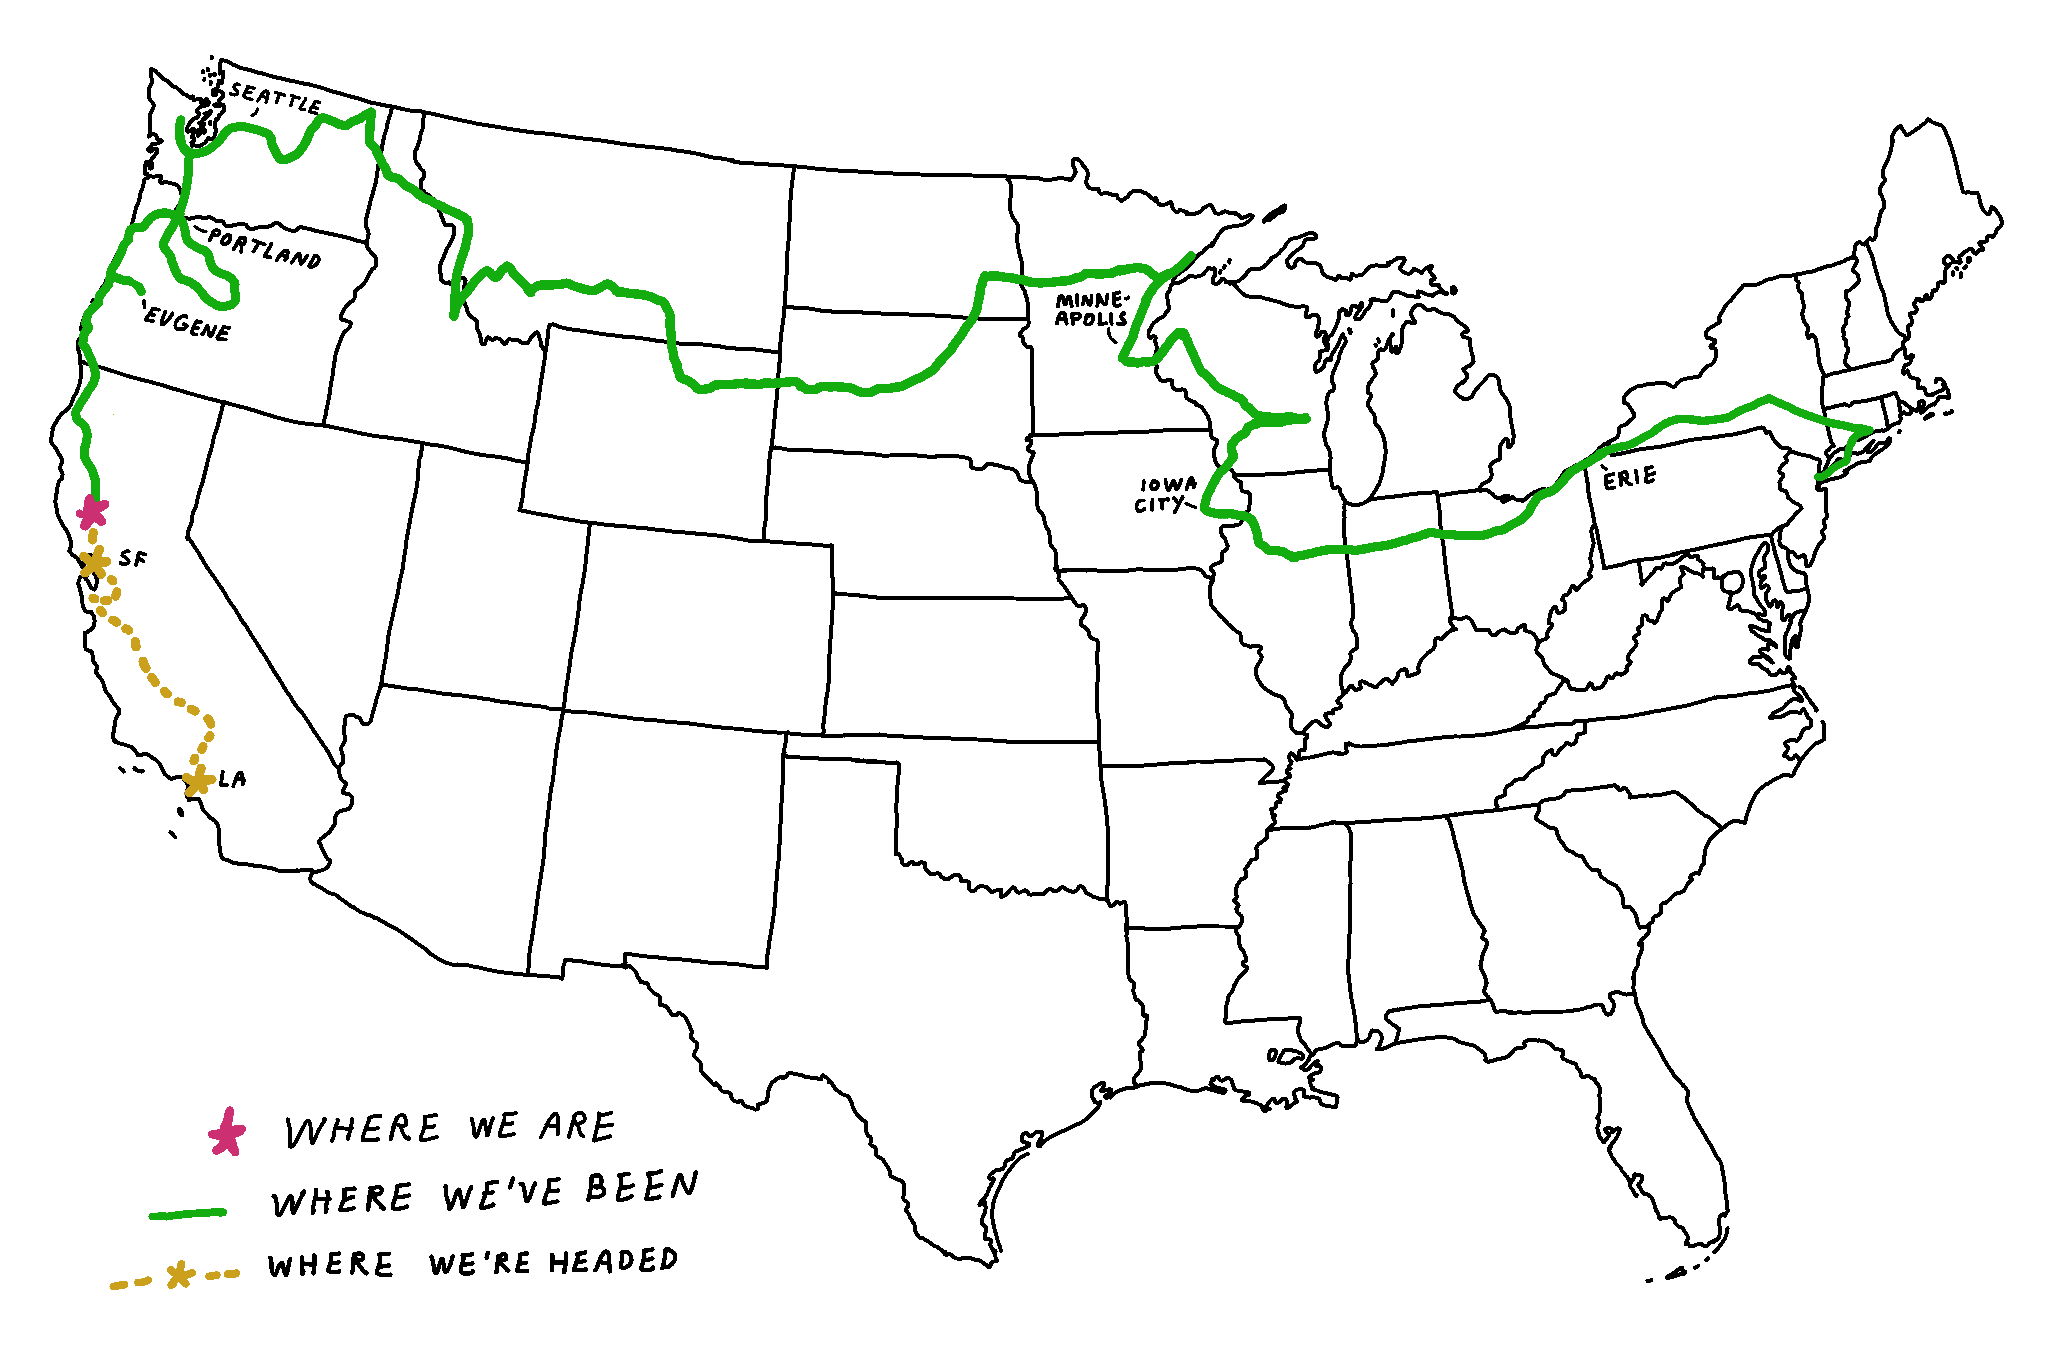
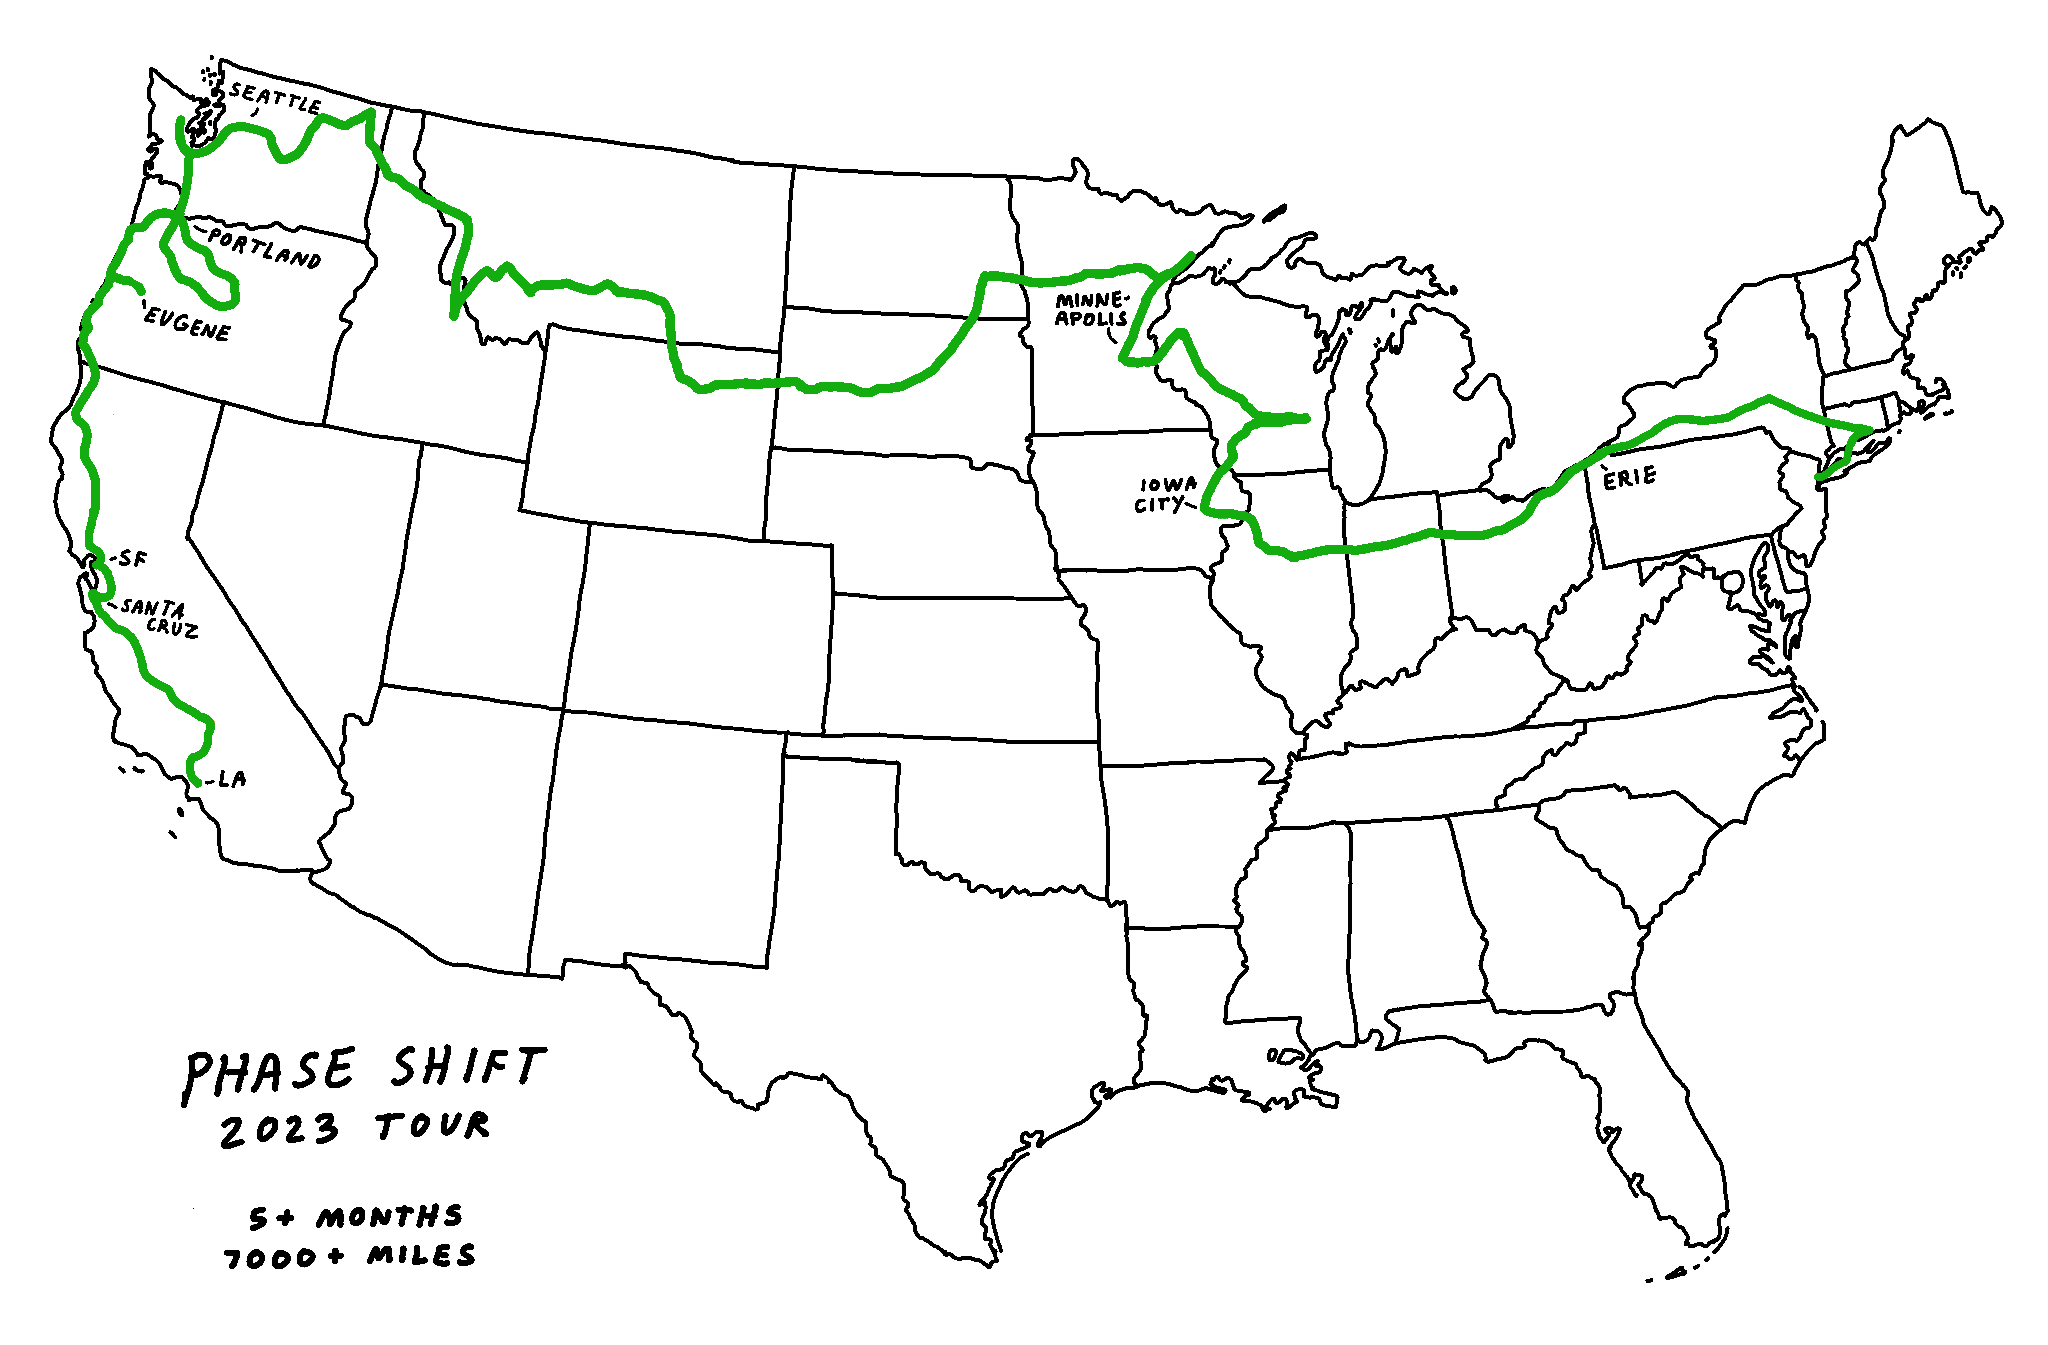
updated post-tour

Changed region(s): [[0.0625, 0.7807, 0.3438, 0.968], [0.0312, 0.3747, 0.0938, 0.5309], [0.0938, 0.5309, 0.125, 0.5933]]

diff --git a/index.html b/index.html
@@ -50,7 +50,7 @@
         <b><i>Phase Shift</i></b> is a media art collective started by <a href="https://andreijaycreativecoding.com" target="_blank">Andrei Jay</a> and <a href="https://palomakop.tv" target="_blank">Paloma Kop</a>. We aim to build connections between artists and organizations in different geographic areas to form an inclusive, community-driven network, while introducing folks to the wide and weird world of audiovisual arts, and sharing the techniques we've learned and developed on our own journeys as artists.
       </p>
       <p>
-        With these goals in mind, we are traveling across the United States in a 1988 Chevrolet van, visiting artist spaces, organizing workshops and meet-ups, and spending time in nature.
+        With these goals in mind, we spent summer-fall 2023 traveling across the United States in a 1988 Chevrolet van, visiting artist spaces, organizing workshops and meet-ups, and spending time in nature.
       </p>
       <p>
         Previously, we collaborated for several years on running <a href="/phase-space-archive/" target="_blank">Phase Space</a>, a DIY video art space in Brooklyn.
@@ -63,31 +63,9 @@
 
         
         <li>
-          <b>2023 October 7</b> - Workshop: Intro to Live Visuals at Pinebox Studio, Eugene, OR (<a href="https://ko-fi.com/s/c0183f2e9a" target="_blank">🎟tickets</a>)
+          <b>Our 2023 tour is over</b> - Subscribe to our mailing list below to find out when we schedule more events!
         </li>
-        <li>
-          <b>2023 October 12</b> - Phase Shift Video Artist Meetup, presented by AV Club at Syzygy, San Francisco, CA (<a href="https://www.syzygysf.com/event-details/av-club-presents-phase-shift-video-artist-meetup" target="_blank">🎟rsvp</a>)
-        </li>
-        <li>
-          <b>2023 October 14</b> - Workshop: Intro to Live Visuals at Cat Factory, San Francisco, CA (<a href="https://ko-fi.com/s/9fae4c5cfb" target="_blank">🎟tickets</a>)
-        </li>
-        <li>
-          <b>2023 October 19</b> - Workshop: Intro To Live Visuals with Special Guests Denise Gallant and Allen Riley at Indexical, Santa Cruz, CA (<a href="https://www.indexical.org/events/2023-10-19-workshop-introduction-to-live-visuals-with-phase-shift-collective" target="_blank">🎟tickets</a>)
-        </li>
-        <li>
-          <b>2023 October 23</b> - Artist talk at <a href="https://calarts.edu/" target="_blank">CalArts</a>, Santa Clarita, CA
-        </li>
-        <li>
-          <b>2023 October 25 - November 1</b> - Artist Residency at <a href="https://coaxialarts.org/" target="_blank">Coaxial Arts Foundation</a>, Los Angeles, CA
-          <ul>
-            <li>
-              <b>October 31</b> (7pm) - Synthetic Forest - Live performance @ Coaxial (<a href="https://withfriends.co/event/16810542/phase_shift_collective_synthetic_forest_october_2023_artist_in_residence" target="_blank">🎟rsvp</a>)
-            </li>
-          </ul>
-        </li>
-        <li>
-          <b>2023 November 11</b> - Phase Shift Video Artist Meet up at <a href="https://bcctucson.org" target="_blank">BCC</a>, Tuscon, AR 
-        </li>
+
       </ul>
 
       <h2>Keep in Touch</h2>
@@ -113,7 +91,7 @@
     </main>
 
     <footer>
-      Last updated: October 4, 2023
+      Last updated: November 21, 2023
     </footer>
 
   </div>

diff --git a/map/index.html b/map/index.html
@@ -43,19 +43,9 @@
 
     <main>
 
-      <h2>Where Are We?</h2>
+      <h2>Where Have We Been?</h2>
 
       <img src="/images/phase_shift_map.png" />
-
-      <p>
-        Total miles traveled: <b>6627</b>
-        <br />
-        Trip duration so far: <b>134 days</b>
-        <br />
-        Average miles traveled per day: <b>49.5</b>
-		<br />
-		Map/stats updated: October 11, 2023
-      </p>
 
       <h2>Past Events</h2>
       <ul>
@@ -76,8 +66,6 @@
         <li>
           <b>2023 July 20</b> - Workshop: Intro to Live Visuals at <a href="https://www.hclib.org/about/locations/roosevelt" target="_blank">Roosevelt Library</a>, Minneapolis, MN
         </li>
-		
-		
         <li>
           <b>2023 September 9</b> - Workshop: Intro to Live Visuals at <a href="https://www.patchwerks.com/pages/events-1" target="_blank">Patchwerks</a>, Seattle, WA
         </li>
@@ -87,11 +75,37 @@
         <li>
           <b>2023 September 17</b> - Workshop: Intro to Live Visuals, Portland, OR
         </li>
+        <li>
+          <b>2023 October 7</b> - Workshop: Intro to Live Visuals at Pinebox Studio, Eugene, OR (<a href="https://ko-fi.com/s/c0183f2e9a" target="_blank">🎟tickets</a>)
+        </li>
+        <li>
+          <b>2023 October 12</b> - Phase Shift Video Artist Meetup, presented by AV Club at Syzygy, San Francisco, CA (<a href="https://www.syzygysf.com/event-details/av-club-presents-phase-shift-video-artist-meetup" target="_blank">🎟rsvp</a>)
+        </li>
+        <li>
+          <b>2023 October 14</b> - Workshop: Intro to Live Visuals at Cat Factory, San Francisco, CA (<a href="https://ko-fi.com/s/9fae4c5cfb" target="_blank">🎟tickets</a>)
+        </li>
+        <li>
+          <b>2023 October 19</b> - Workshop: Intro To Live Visuals with Special Guests Denise Gallant and Allen Riley at Indexical, Santa Cruz, CA (<a href="https://www.indexical.org/events/2023-10-19-workshop-introduction-to-live-visuals-with-phase-shift-collective" target="_blank">🎟tickets</a>)
+        </li>
+        <li>
+          <b>2023 October 23</b> - Artist talk at <a href="https://calarts.edu/" target="_blank">CalArts</a>, Santa Clarita, CA
+        </li>
+        <li>
+          <b>2023 October 25 - November 1</b> - Artist Residency at <a href="https://coaxialarts.org/" target="_blank">Coaxial Arts Foundation</a>, Los Angeles, CA
+          <ul>
+            <li>
+              <b>October 31</b> (7pm) - Synthetic Forest - Live performance @ Coaxial (<a href="https://withfriends.co/event/16810542/phase_shift_collective_synthetic_forest_october_2023_artist_in_residence" target="_blank">🎟rsvp</a>)
+            </li>
+          </ul>
+        </li>
+        <li>
+          <b>2023 November 11</b> - Phase Shift Video Artist Meet up at <a href="https://bcctucson.org" target="_blank">BCC</a>, Tuscon, AR 
+        </li>
 
     </main>
 
     <footer>
-      Last updated: October 11, 2023
+      Last updated: November 21, 2023
     </footer>
 
   </div>
